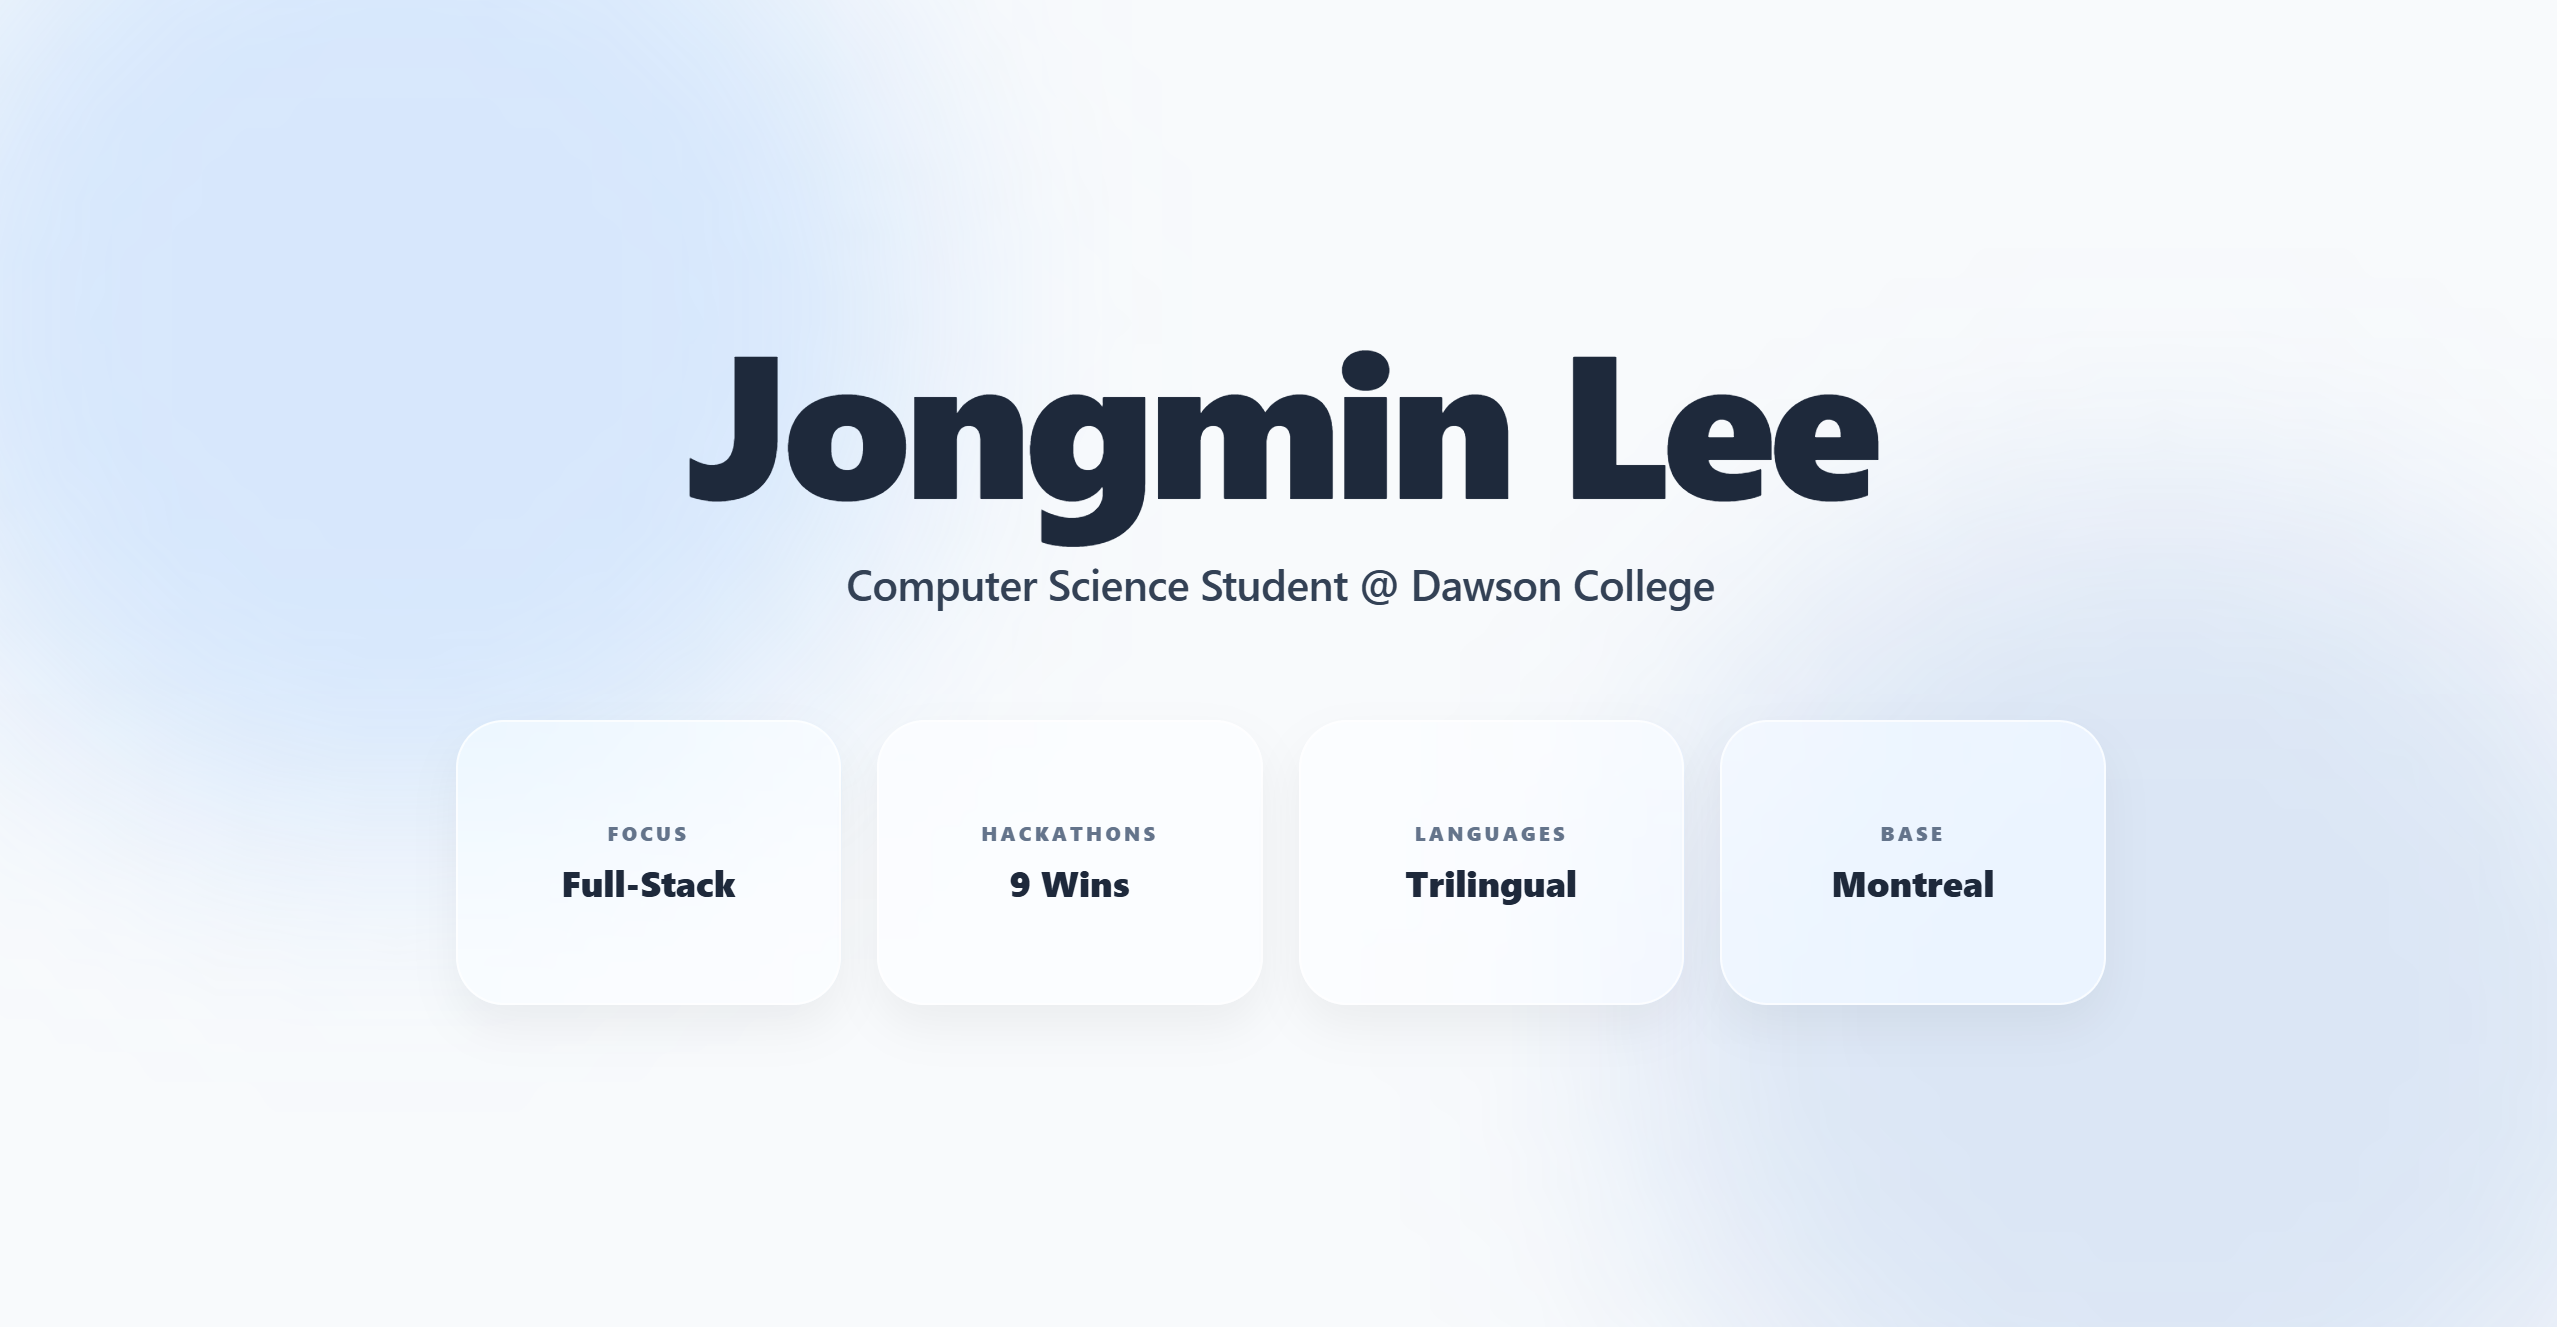
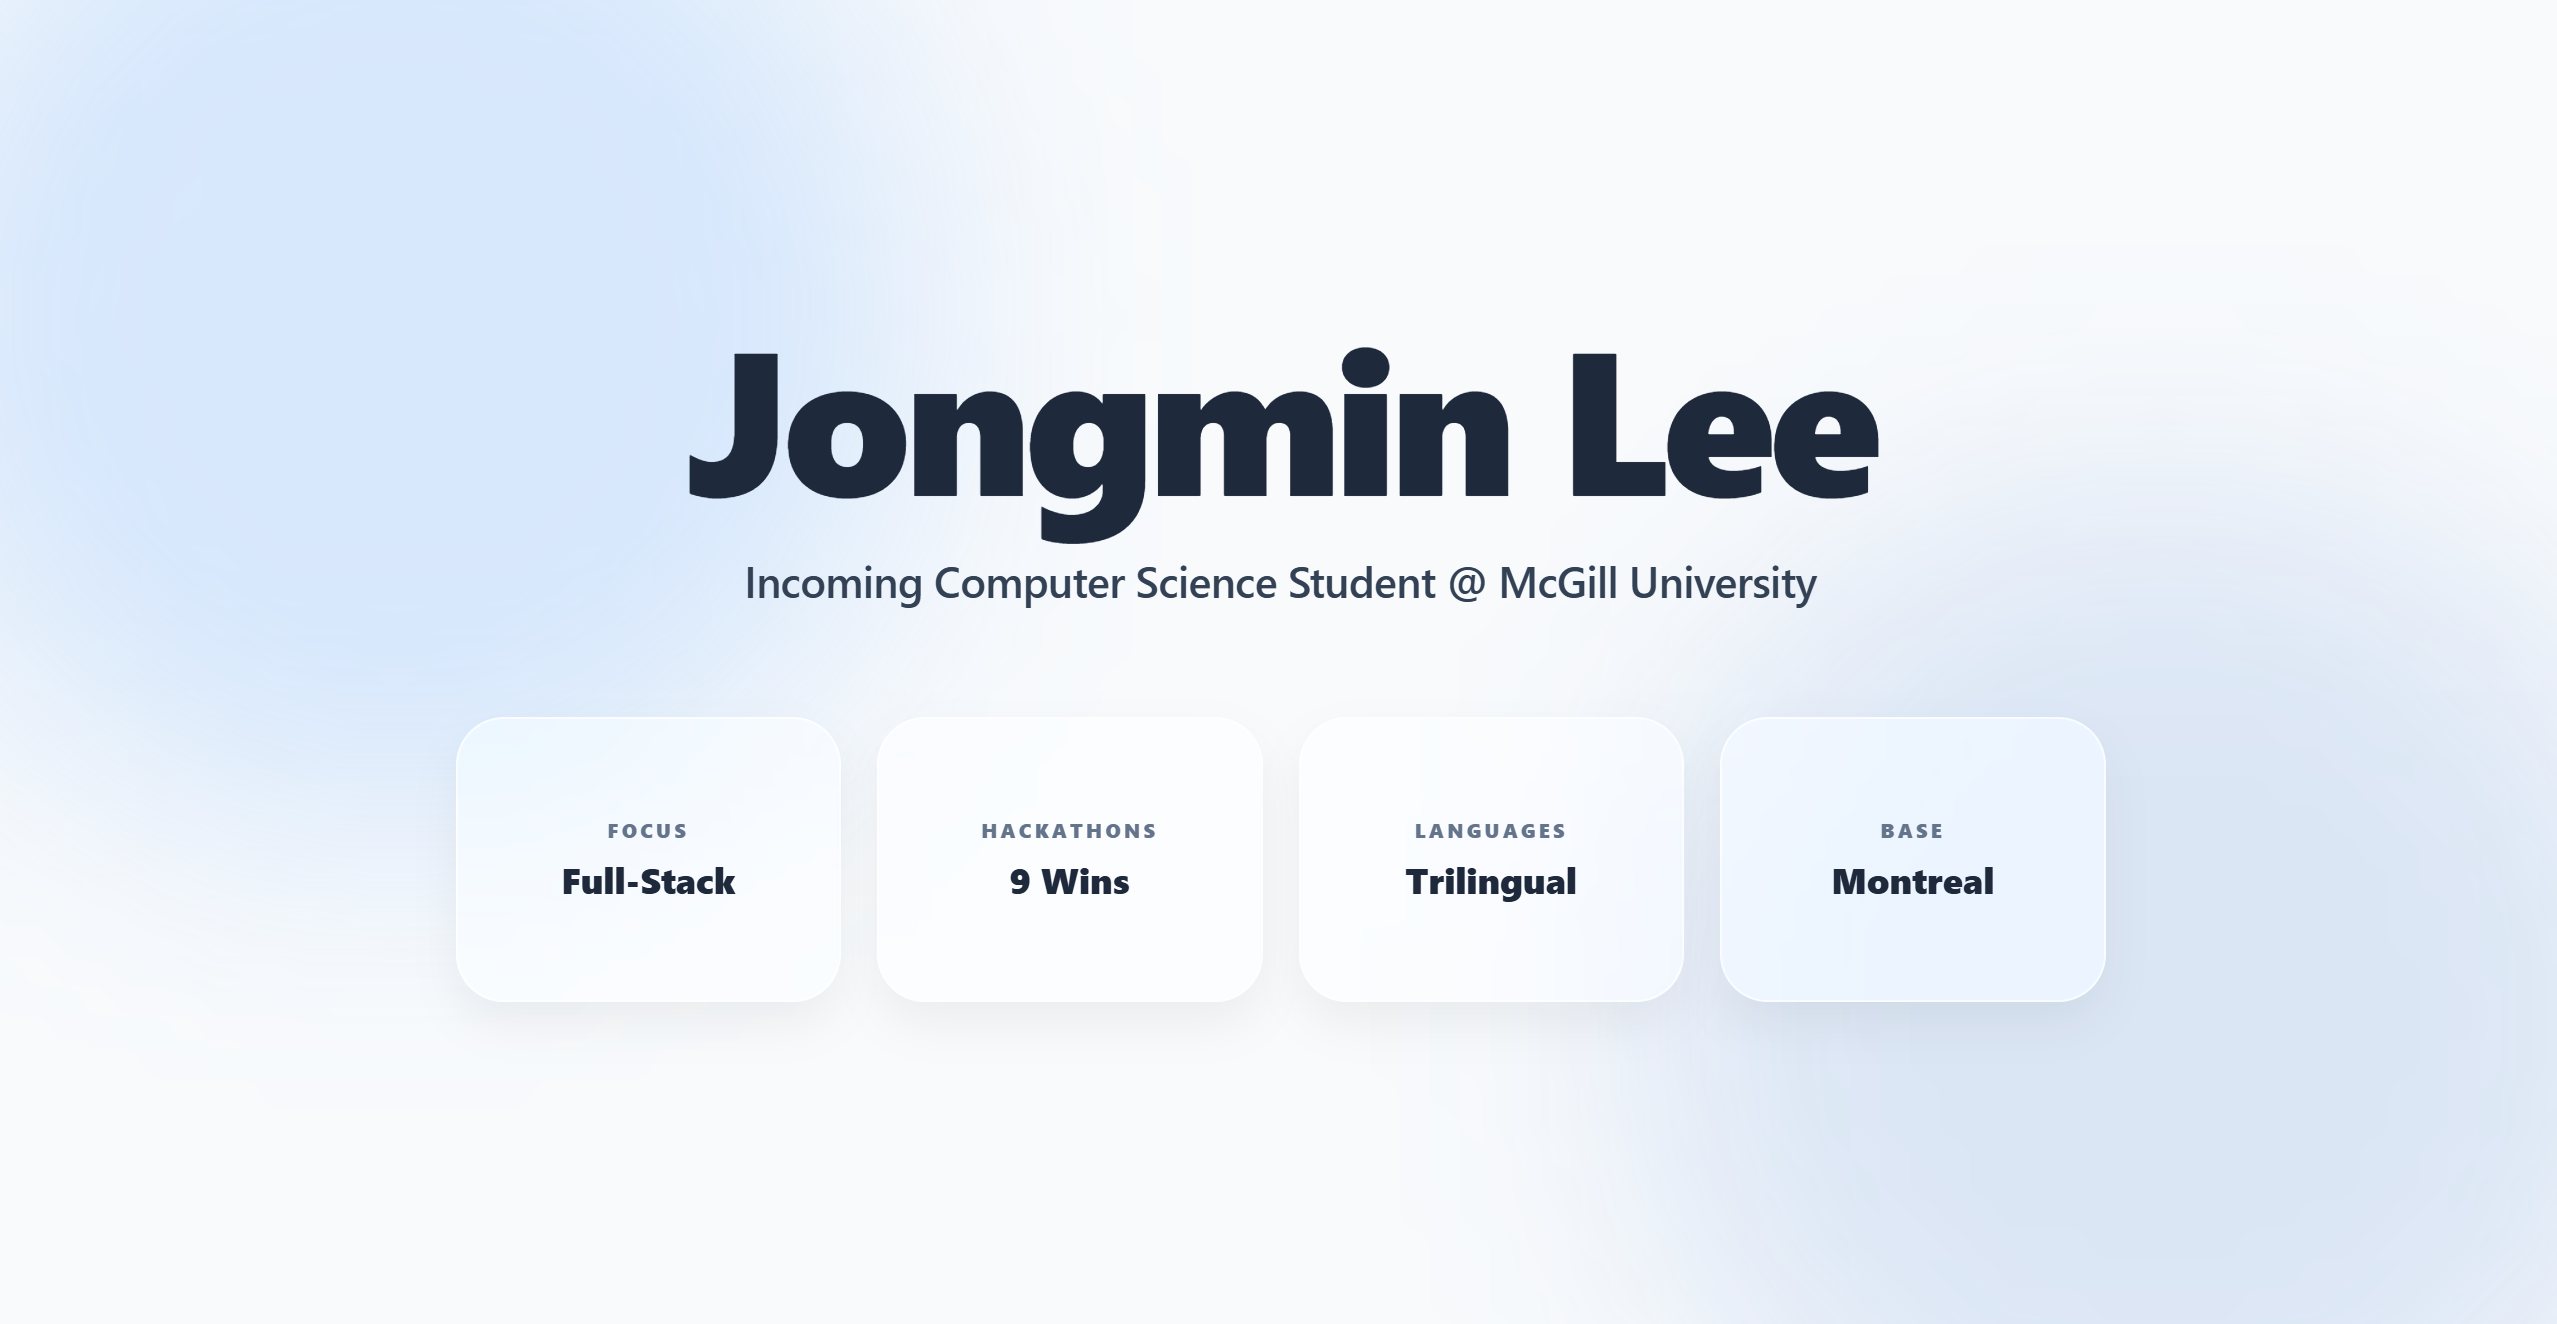
fix: fix a filter error

diff --git a/static/script.js b/static/script.js
@@ -162,8 +162,16 @@ function updateUI() {
 }
 
 (function () {
+    function syncFiltersFromDom() {
+        const activeButtons = document.querySelectorAll(".filter-btn.active");
+        const values = Array.from(activeButtons)
+            .map(btn => btn.getAttribute("data-filter"))
+            .filter(Boolean);
+        activeFilters = (values.length === 0 || values.includes("all")) ? ["all"] : values;
+    }
     function initAchievementFilters() {
         if (document.getElementById("filterCount") || document.getElementById("achievements-row")) {
+            syncFiltersFromDom();
             applyFilterEffect();
         }
     }
